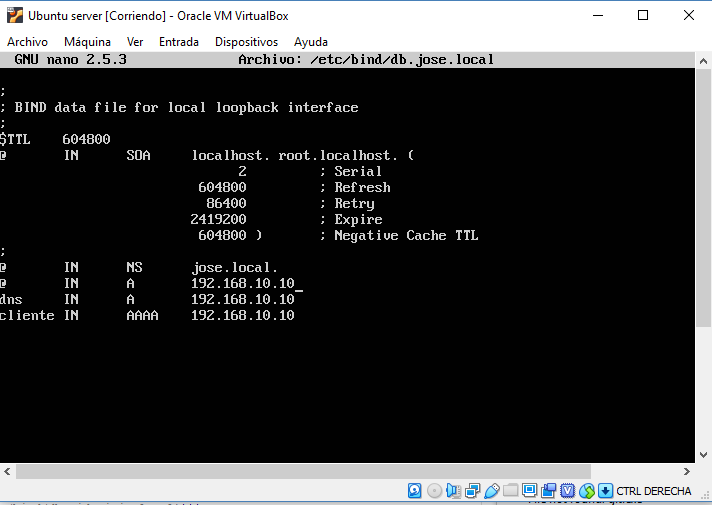
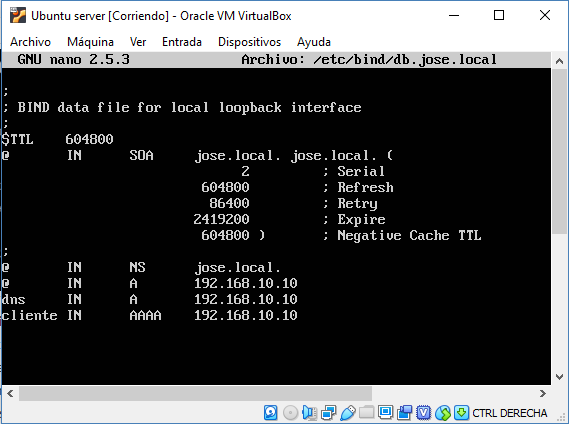
actualizacion

Changed region(s): [[0.0, 0.0, 1.0, 1.0], [0.2091, 0.7358, 0.2988, 0.7665]]

diff --git a/README.md b/README.md
@@ -58,6 +58,39 @@ Para ello utilizaremos el comando ***`sudo nano /etc/bind/db.midominio.local`***
 
 ![Foto](capturas/bddirecta.PNG)
 
+     Este fichero vendrá relleno y solo tendremos que cambiar los parametros por los nuestros, si no os apareciera 
+     relleno con parametros por defecto, sólo tendréis que copiar este y poner vuestros parámetros. El SOA determina el 
+    propietario de la zona, pondríamos el nombre de nuestra zona y dejando espacio un correo, en mi caso 
+    (jose.local.). Los números que nos aparecen son parámetros, como el número serie del fichero 
+    (yo he puesto 1, aunque suele ponerse la fecha al reves y el numero de la versión, por ejemplo 20170925001),el 
+    número de serie nos sirve de referencia para saber cuando hemos modificado los parámetros del fichero. Los dos 
+    siguientes son para un servidor secundario (en el refresco le dices cuanto tiempo mira el secundario a ver si hay 
+    algún cambio,y el reintento cada cuando reintenta esa petición sobre si hay algún cambio), el expire es el timepo 
+    en el que expira la configuración del servidor y el último sería el timempo de vida del DNS caché. El NS sería 
+    nuestro servidor autorizado, en el A ponemos nuestro host y su IP. En éste caso pondremos dos host (A), el servidor 
+    (ferrer) y mi windows xp (cliente), con sus respectivas direcciones IP. En el CNAME el alias que queremos que 
+    tenga, le pondré un alias (ferrerson) a mi cliente (xp). Y por último añadimos un registro SRV como ejemplo ya que 
+    no tenemos más servicios disponibles, en el ejemplo hemos puesto un FTP por TCP y el puerto y el peso acompañado 
+    del dominio que tendría dicho servicio. La AAAA es el host de IPv6, con lo cual lo dejamos tal cual está sin configurar.
+
+
+Nuevamente procederemos a chequear que hayamos realizado correctamente esta paso anterior y asegurarnos que no hayamos
+cometido nigún error de sintaxis. 
+Para ello utilizaremos ***`sudo named-checkconf midominio.local /etc/bind/db.midominio.local`***
+
+A continuación añadiremos registros a la zona inversa. Para ello utilizaremos el comando
+ ***`sudo nano /etc/bind/db.tudireccion`***
+ 
+![Foto](capturas/regZonaInversa.PNG)
+
+    Nos encontramos con el SOA explicado anteriormente en el que realizamos mismo proceso. En el NS ponemos nuestro 
+    servidor fuertemente cualificado, y en el PTR la IP del host al revés y añadiendo .in-addr.arpa. y nuestro host. 
+    Como tengo el servidor (ferrer) y el cliente (xp), les pongo el PTR a los dos para que el DNS me los resuelva de 
+    IP a nombre.
+
+## Reiniciamos el servcicio
+
+Con el comando***`/etc/init.d/bind9 restart`***reiniciamos el servicio.
 
 
 
